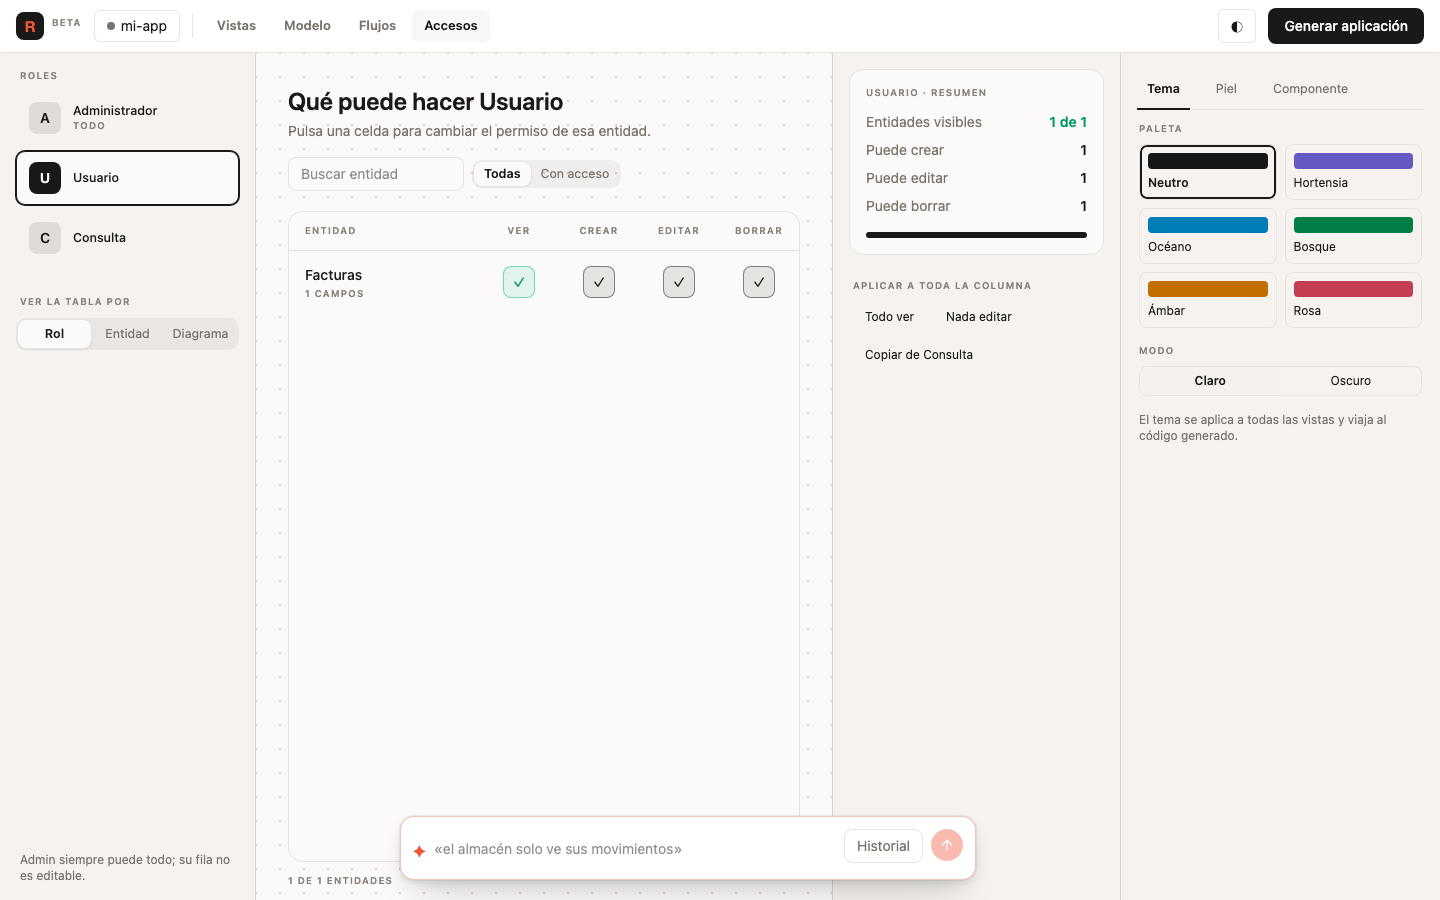
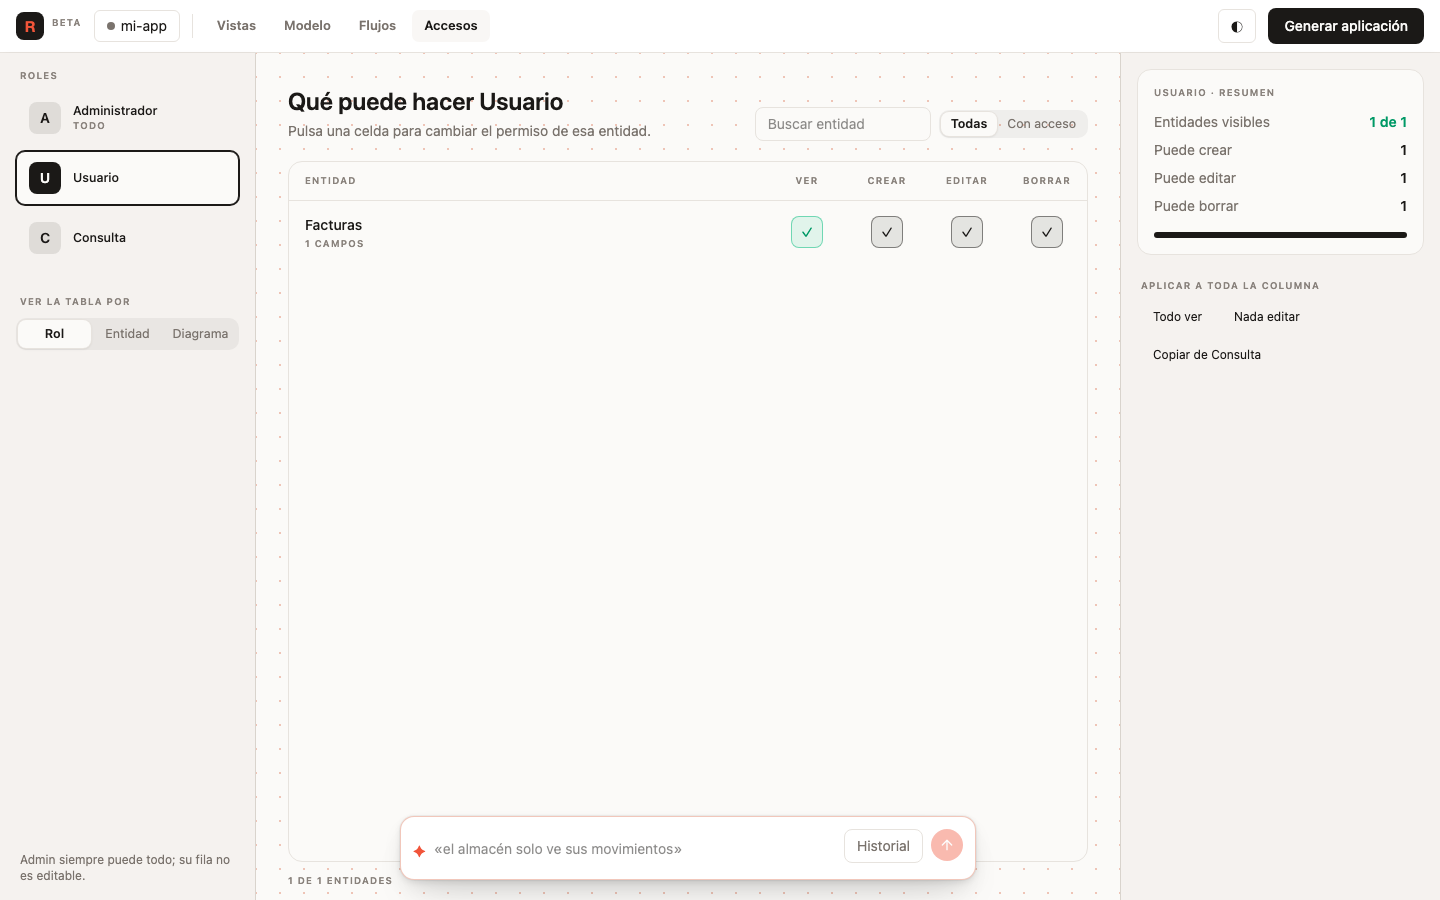
fix(studio): access summary takes the studio right panel, not a fourth column
The Vistas design panel (Tema/Piel/Componente) stayed mounted in
Accesos, so the tab showed four columns. Access now supplies its own
right panel — the role summary, only on the role pivot — through the
same slot Modelo and Flujos use, leaving three columns: roles, table,
summary. Entity and diagram pivots drop the panel entirely.

diff --git a/apps/studio/libs/frontend/src/domains/studio/design/studio-canvas.component.ts b/apps/studio/libs/frontend/src/domains/studio/design/studio-canvas.component.ts
@@ -52,6 +52,8 @@ import { ViewsSidebarComponent } from './views-sidebar.component'
 import { ModelSidebarComponent } from './model-sidebar.component'
 import { FlowSidebarComponent } from './flow-sidebar.component'
 import { AccessSidebarComponent } from './access-sidebar.component'
+import { AccessSummaryComponent } from './access-summary.component'
+import { AccessUiService } from './access-ui.service'
 import { AccessViewComponent } from './access-view.component'
 import { DesignPanelComponent } from './design-panel.component'
 import { ModelPanelComponent } from './model-panel.component'
@@ -82,6 +84,7 @@ import { hasPublishableDesign, spelled } from '../generate/wizard-command'
     ModelSidebarComponent,
     FlowSidebarComponent,
     AccessSidebarComponent,
+    AccessSummaryComponent,
     AccessViewComponent,
     DesignPanelComponent,
     ModelPanelComponent,
@@ -578,15 +581,23 @@ import { hasPublishableDesign, spelled } from '../generate/wizard-command'
           </div>
         </div>
 
-        <aside class="studio-rail studio-rail-end flex w-80 shrink-0 flex-col border-l p-4">
-          @if (mode() === 'model') {
-            <studio-model-panel />
-          } @else if (mode() === 'flows') {
-            <studio-flow-panel />
-          } @else {
-            <studio-design-panel />
-          }
-        </aside>
+<!-- Accesos trae su propio panel derecho (el resumen del rol) y solo en el pivote Rol:
+             el de Vistas no pinta nada ahí, y una cuarta columna sobra. -->
+        @if (mode() !== 'access') {
+          <aside class="studio-rail studio-rail-end flex w-80 shrink-0 flex-col border-l p-4">
+            @if (mode() === 'model') {
+              <studio-model-panel />
+            } @else if (mode() === 'flows') {
+              <studio-flow-panel />
+            } @else {
+              <studio-design-panel />
+            }
+          </aside>
+        } @else if (accessUi.pivot() === 'role') {
+          <aside class="studio-rail studio-rail-end flex w-80 shrink-0 flex-col border-l p-4">
+            <studio-access-summary />
+          </aside>
+        }
       </div>
     </div>
   `,
@@ -700,6 +711,7 @@ export class StudioCanvasComponent {
 
   protected readonly modes = STUDIO_MODES
   private readonly studioMode = inject(StudioModeService)
+  protected readonly accessUi = inject(AccessUiService)
   protected readonly mode = this.studioMode.mode
   protected readonly designMenu = signal(false)
   protected readonly renameSlug = signal('')

diff --git a/apps/studio/libs/frontend/src/domains/studio/design/access-view.component.ts b/apps/studio/libs/frontend/src/domains/studio/design/access-view.component.ts
@@ -1,28 +1,23 @@
 import { ChangeDetectionStrategy, Component, inject } from '@angular/core'
 import { AccessDiagramViewComponent } from './access-diagram-view.component'
-import { AccessSummaryComponent } from './access-summary.component'
 import { AccessTableComponent } from './access-table.component'
 import { AccessUiService } from './access-ui.service'
 
 /**
  * El centro del modo Accesos (spec 49): conmuta entre los tres pivotes del raíl —
- * la tabla por Rol (con su panel de resumen), la tabla por Entidad y el diagrama
- * de casos de uso de la spec 46, que se conserva intacto como tercera mirada.
+ * la tabla por Rol, la tabla por Entidad y el diagrama de casos de uso de la spec 46,
+ * que se conserva intacto como tercera mirada. El resumen del rol NO vive aquí: es el
+ * panel derecho del estudio (el mismo hueco que Modelo y Flujos usan para el suyo).
  */
 @Component({
   selector: 'studio-access-view',
   changeDetection: ChangeDetectionStrategy.OnPush,
-  imports: [AccessDiagramViewComponent, AccessSummaryComponent, AccessTableComponent],
+  imports: [AccessDiagramViewComponent, AccessTableComponent],
   template: `
     @if (ui.pivot() === 'diagram') {
       <studio-access-diagram-view />
     } @else {
-      <div class="flex h-full min-h-0">
-        <studio-access-table class="min-w-0 flex-1" />
-        @if (ui.pivot() === 'role') {
-          <studio-access-summary />
-        }
-      </div>
+      <studio-access-table class="block h-full" />
     }
   `
 })

diff --git a/apps/studio/libs/frontend/src/domains/studio/design/access-view.component.spec.ts b/apps/studio/libs/frontend/src/domains/studio/design/access-view.component.spec.ts
@@ -29,16 +29,23 @@ describe('AccessViewComponent', () => {
     ui.onlyWithAccess.set(false)
   })
 
-  it('con el pivote Rol pinta la tabla y el resumen', () => {
+  it('con el pivote Rol pinta la tabla del rol activo', () => {
     store.addResource('Cliente')
 
     const fixture = mount()
 
     expect(testId(fixture, 'access-cell-cliente-view')).not.toBeNull()
-    expect(testId(fixture, 'access-summary-view')).not.toBeNull()
   })
 
-  it('con el pivote Entidad pinta las filas de rol sin resumen', () => {
+  it('el resumen NO vive en el centro: es el panel derecho del estudio', () => {
+    store.addResource('Cliente')
+
+    const fixture = mount()
+
+    expect(testId(fixture, 'access-summary-view')).toBeNull()
+  })
+
+  it('con el pivote Entidad pinta las filas de rol', () => {
     store.addResource('Cliente')
     ui.pivot.set('entity')
 
@@ -46,7 +53,6 @@ describe('AccessViewComponent', () => {
 
     expect(testId(fixture, 'access-entity-select')).not.toBeNull()
     expect(testId(fixture, 'access-ecell-user-view')).not.toBeNull()
-    expect(testId(fixture, 'access-summary-view')).toBeNull()
   })
 
   it('con el pivote Diagrama pinta el lienzo de casos de uso', () => {

diff --git a/apps/studio/libs/frontend/src/domains/studio/design/access-summary.component.ts b/apps/studio/libs/frontend/src/domains/studio/design/access-summary.component.ts
@@ -16,7 +16,7 @@ const ROLE_LABELS = { admin: 'Administrador', user: 'Usuario', viewer: 'Consulta
   changeDetection: ChangeDetectionStrategy.OnPush,
   template: `
     @if (store.resources().length) {
-      <aside class="studio-rail flex h-full w-72 shrink-0 flex-col gap-6 overflow-y-auto border-l p-4">
+      <div class="flex min-h-0 flex-col gap-6 overflow-y-auto">
         <section class="bg-background rounded-xl border p-4">
           <h2 class="studio-eyebrow mb-3">{{ roleLabel() }} · resumen</h2>
           <dl class="space-y-2 text-sm">
@@ -60,7 +60,7 @@ const ROLE_LABELS = { admin: 'Administrador', user: 'Usuario', viewer: 'Consulta
             </div>
           </section>
         }
-      </aside>
+      </div>
     }
   `,
   styles: `
